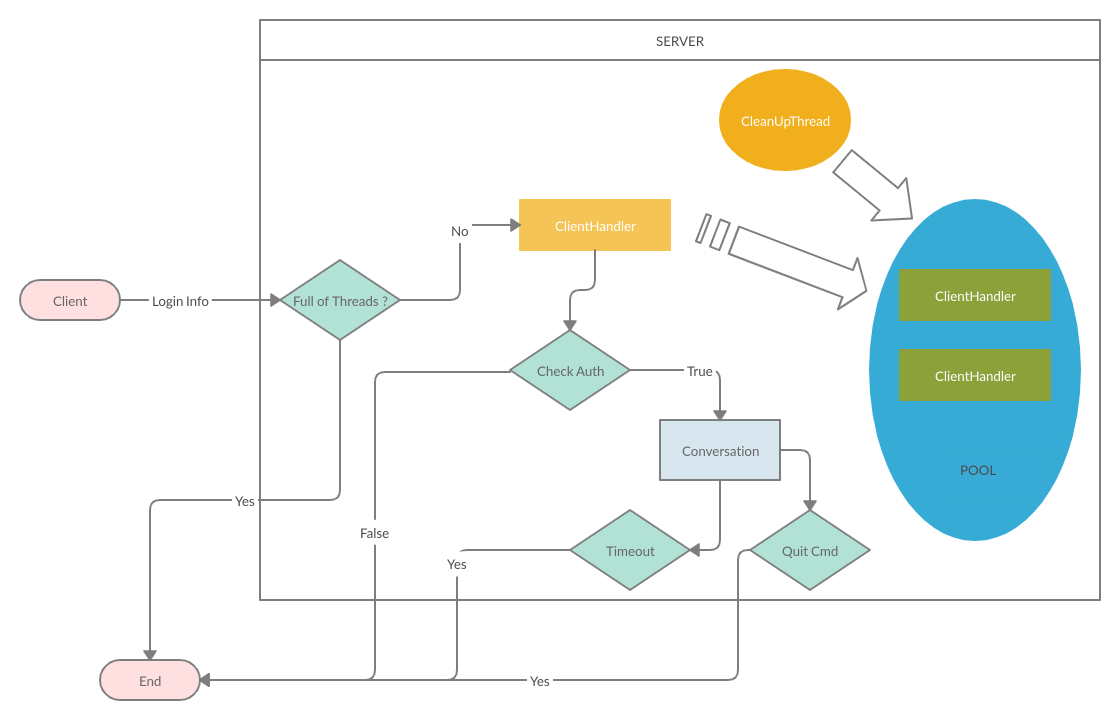
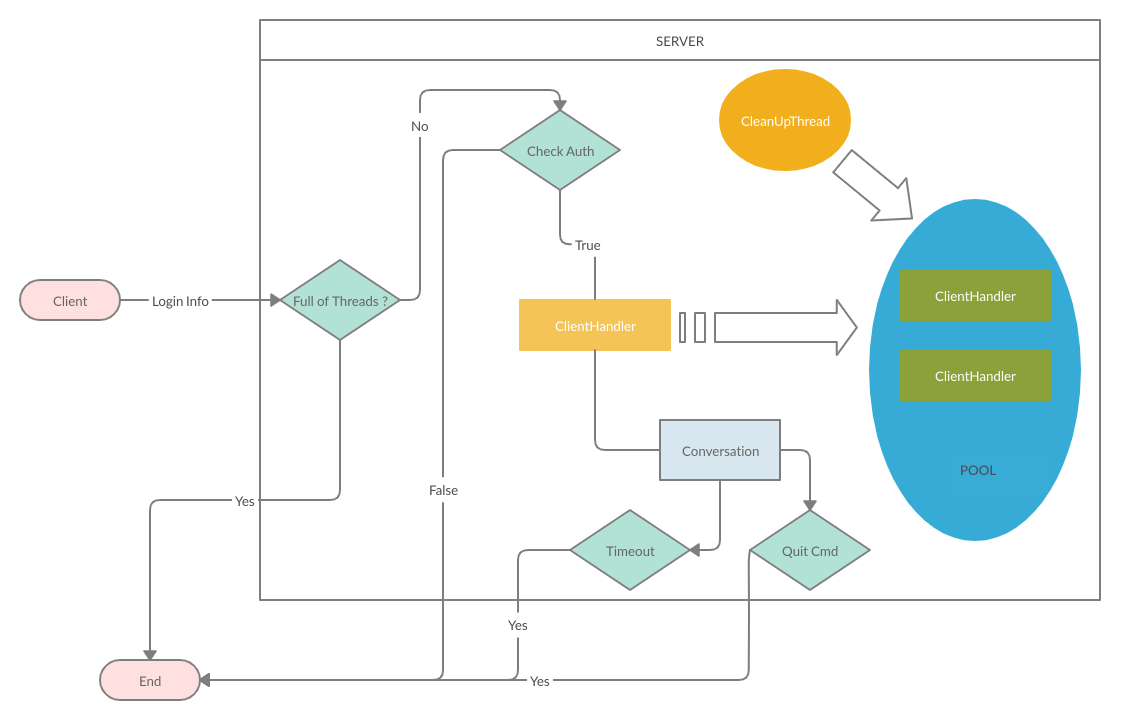
Update README

diff --git a/README.md b/README.md
@@ -1,7 +1,7 @@
 #`Connection Pool`
 ![connection-pool-diagram](./connection-pool.png)
-- Client send login info to server. If the number of threads is not full, then server will create a thread "ClientHandler" to handle request from client.
-- Server check authentication with a sample database. If login success, server and client will go into "conversation"
+- Client send login info to server. If the number of threads is not full, then server check authentication with a sample database.
+-  If login success, server create a thread "ClientHandler" to handle request from client. Then, server and client will go into "conversation"
 - A conversation will continue until client send a message "quit" or when timeout.
 - For each request/response from client/server, it may be in format : <format command> <content of command>
 - All possible format of request/response are: login <username> <password>, quit, msg <message>, ddos (when server is full)...
